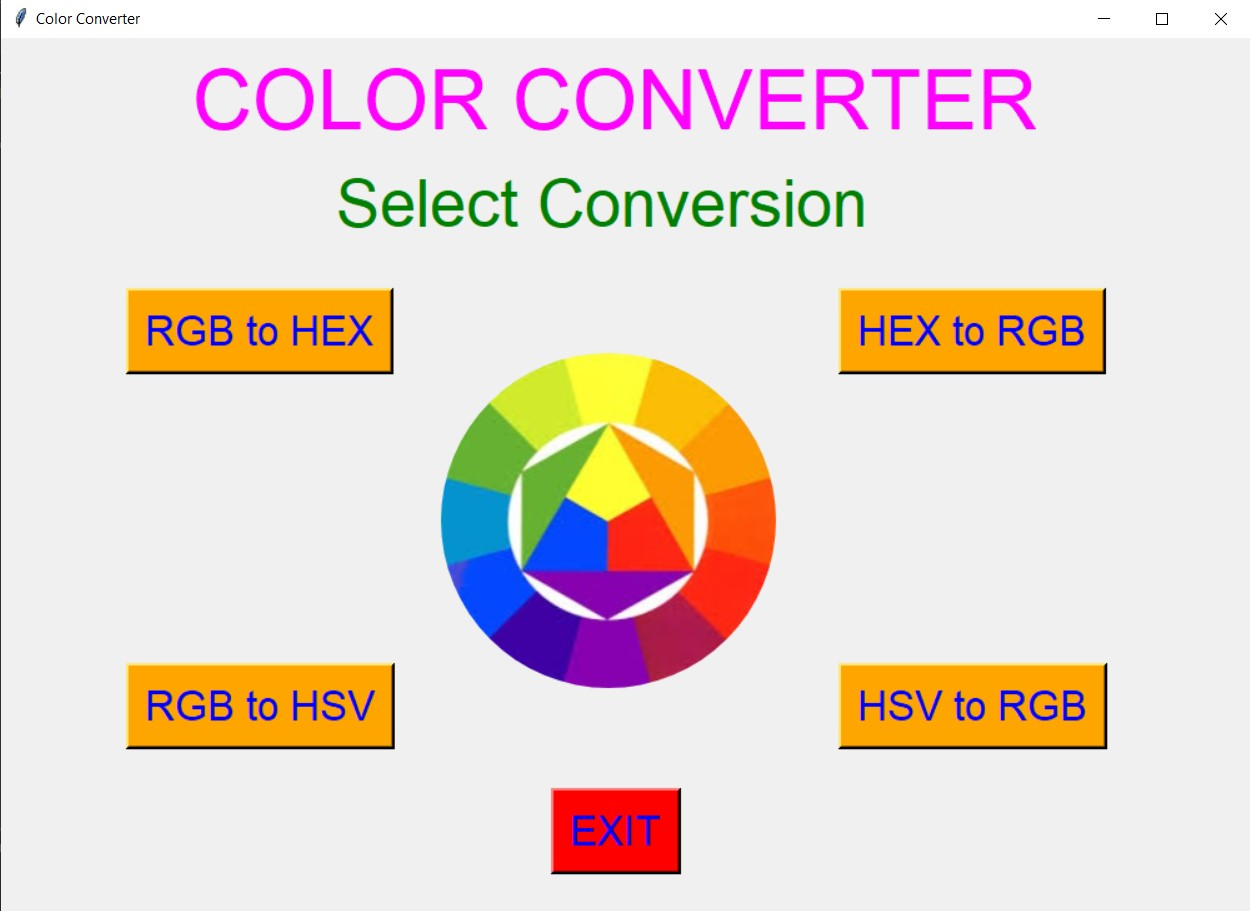
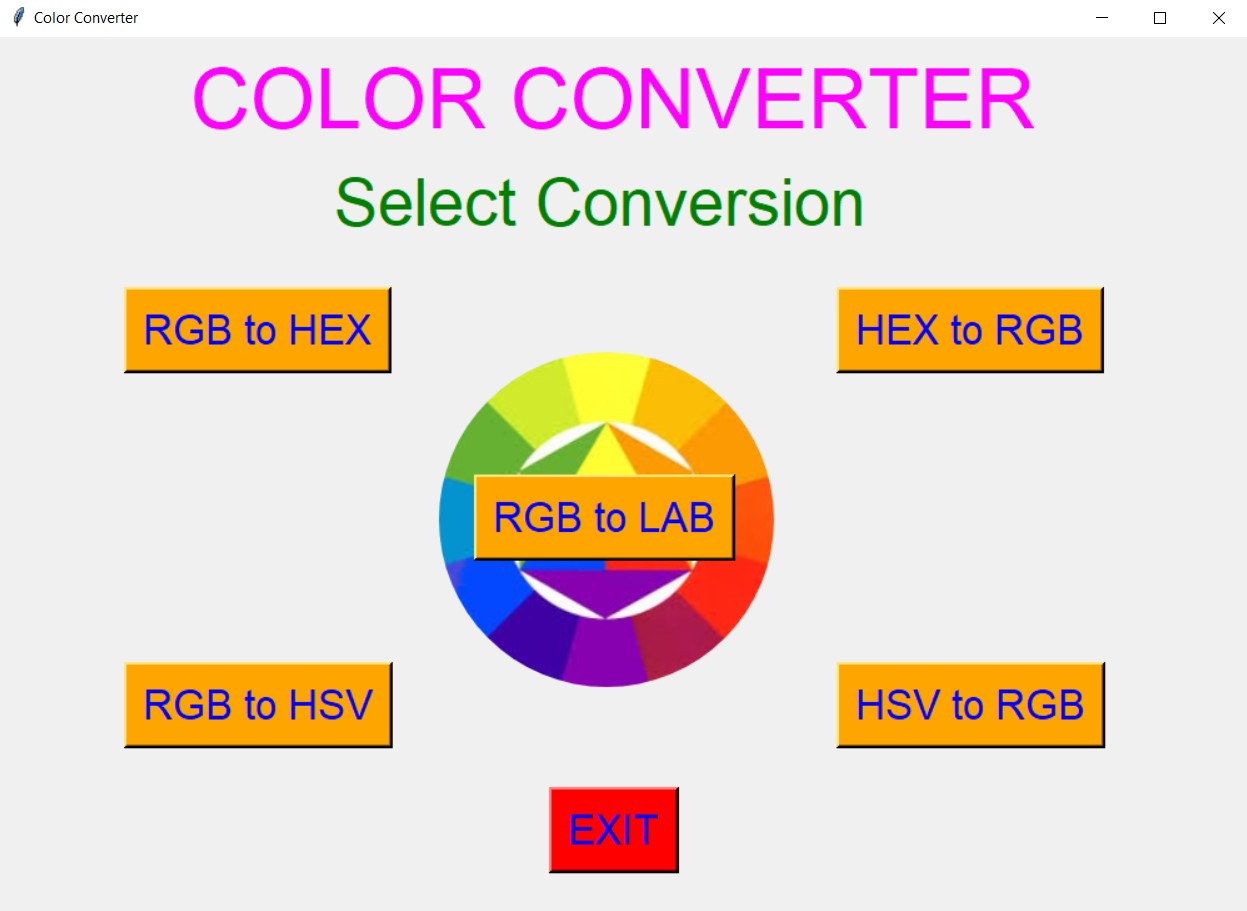
Enhanced Color Converter with RGB to LAB Conversion

diff --git a/GUIScripts/Color Converter/color_converter.py b/GUIScripts/Color Converter/color_converter.py
@@ -6,6 +6,7 @@ from tkinter import *  # from tkinter we import everything
 import tkinter as tk
 from tkinter import ttk
 from PIL import Image, ImageTk
+import tkinter.messagebox as mbox
 import colorsys
 
 # Main Window
@@ -290,6 +291,112 @@ def def_hsv_to_rgb():
                       borderwidth=3, relief="raised")
     convertb.place(x=380, y=600)
 
+# function to convert from rgb to lab
+def def_rgb_to_lab():
+    # function for convert button
+    def convert_fun():
+        input_rgb = f_entry.get()
+        list = (input_rgb.rstrip().split(' '))
+
+        num = 0
+        # created list RGB and initialized with 0
+        RGB = [0, 0, 0]
+        for value in list:
+            value = float(value) / 255
+            if value > 0.04045:
+                value = ((value + 0.055) / 1.055) ** 2.4
+            else:
+                value = value / 12.92
+            RGB[num] = value * 100
+            num = num + 1
+        XYZ = [0, 0, 0,]
+        # converted all the three R, G, B to X, Y, Z
+        X = RGB[0] * 0.4124 + RGB[1] * 0.3576 + RGB[2] * 0.1805
+        Y = RGB[0] * 0.2126 + RGB[1] * 0.7152 + RGB[2] * 0.0722
+        Z = RGB[0] * 0.0193 + RGB[1] * 0.1192 + RGB[2] * 0.9505
+        # rounded off the values upto 4 decimal digit
+        XYZ[0] = round(X, 4)
+        XYZ[1] = round(Y, 4)
+        XYZ[2] = round(Z, 4)
+        XYZ[0] = float(XYZ[0]) / 95.047  # ref_X =  95.047   Observer= 2°, Illuminant= D65
+        XYZ[1] = float(XYZ[1]) / 100.0  # ref_Y = 100.000
+        XYZ[2] = float(XYZ[2]) / 108.883  # ref_Z = 108.883
+        num = 0
+        for value in XYZ:
+            if value > 0.008856:
+                value = value ** (0.3333333333333333)
+            else:
+                value = (7.787 * value) + (16 / 116)
+            XYZ[num] = value
+            num = num + 1
+
+        # formed Lab list and initialize with 0
+        Lab = [0,0, 0]
+        # found L, A, and B
+        L = (116 * XYZ[1]) - 16
+        a = 500 * (XYZ[0] - XYZ[1])
+        b = 200 * (XYZ[1] - XYZ[2])
+        # rounded off to 4 decimal digit
+        Lab[0] = round(L,4)
+        Lab[1] = round(a,4)
+        Lab[2] = round(b,4)
+        x = str(Lab[0]) + " " + str(Lab[1]) + " " + str(Lab[2])
+
+        s_entry.delete(0, END)
+        s_entry.insert(0, x)
+
+        red = int(list[0])
+        green = int(list[1])
+        blue = int(list[2])
+        x1 = '#%02x%02x%02x' % (red, green, blue)
+
+        # previewed
+        preview_text.configure(bg=str(x1))
+        top1.configure(bg=str(x1))
+        top2.configure(bg=str(x1))
+        # mbox.showinfo("Brightness", "Brightness Level  :  " + str(Lab[0]))
+
+
+    # created frame1 window
+    frame1 = Tk()
+    frame1.title('RGB to LAB')
+    frame1.geometry('1000x700')
+
+    # top label
+    start1 = tk.Label(frame1, text="RGB to LAB", font=("Arial", 50), fg="magenta")  # same way bg
+    start1.place(x=290, y=10)
+
+    # for preview
+    preview_text = tk.Text(frame1, height=15, width=60, font=("Arial", 15), bg="white", borderwidth=3, relief="solid")
+    preview_text.place(x=150, y=100)
+
+    # preview1 label
+    top1 = Label(frame1, text="PREVIEW AREA", font=("Arial", 40), fg="black", bg="white")  # same way bg
+    top1.place(x=270, y=180)
+
+    # preview2 label
+    top2 = Label(frame1, text="Color will be previewed here...", font=("Arial", 25), fg="black",bg="white")  # same way bg
+    top2.place(x=265, y=280)
+
+    # label for color name ---------------------------------------------------------------------------------
+    f_label = tk.Label(frame1, text="RGB Code", font=("Arial", 35), fg="brown")  # same way bg
+    f_label.place(x=180, y=470)
+
+    f_entry = Entry(frame1, font=("Arial", 30), width=10, border=2, bg="light yellow", fg="brown")
+    f_entry.place(x=180, y=530)
+
+    # label for color name ---------------------------------------------------------------------------------
+    s_label = tk.Label(frame1, text="LAB Code", font=("Arial", 35), fg="brown")  # same way bg
+    s_label.place(x=550, y=470)
+
+    s_entry = Entry(frame1, font=("Arial", 30), width=15, border=2, bg="light yellow", fg="brown")
+    s_entry.place(x=500, y=530)
+
+    # created a button for hex to rgb conversion
+    convertb = Button(frame1, text='CONVERT', command=convert_fun, font=("Arial", 25), bg="light green", fg="blue",borderwidth=3, relief="raised")
+    convertb.place(x=380, y=600)
+
+
 # image on the main window
 path = "Images/color.png"
 # Creates a Tkinter-compatible photo image, which can be used everywhere Tkinter expects an image object.
@@ -313,6 +420,10 @@ rgbtohexb.place(x=100, y=200)
 # created a button for hex to rgb conversion
 hextorgbb = Button(frame, text='HEX to RGB', command=def_hex_to_rgb, font=("Arial", 25), bg = "orange", fg = "blue", borderwidth=3, relief="raised")
 hextorgbb.place(x=670, y=200)
+
+# created a button for rgb to lab conversion
+rgbtolabb = Button(frame, text='RGB to LAB', command=def_rgb_to_lab, font=("Arial", 25), bg = "orange", fg = "blue", borderwidth=3, relief="raised")
+rgbtolabb.place(x=380, y=350)
 
 # created a button for rgb to hsv conversion
 rgbtohsvb = Button(frame, text='RGB to HSV', command=def_rgb_to_hsv, font=("Arial", 25), bg = "orange", fg = "blue", borderwidth=3, relief="raised")

diff --git a/GUIScripts/Color Converter/README_enhanced.md b/GUIScripts/Color Converter/README_enhanced.md
@@ -1,0 +1,38 @@
+# ✔ COLOR CONVERTER
+- #### An Color Converter created in python with tkinter gui.
+- #### Using this user will be able to convert RGB color code to HEX color code, HEX to RGB, RGB to HSV, HSV to RGB and RGB to LAB.
+- #### Also while converting user will be shown preview of the color converted in the preview area.
+
+****
+
+# Changes Done :
+- ### Updated Code with the RGB to LAB color conversion. Here user will be able to convert RGB code to LAB code. In LAB, L stands for Lightness and A and B are chromatic component of color.
+- ### Updated the Images in the Images Folder.
+
+****
+
+# SCREENSHOTS :
+
+****
+
+<p align="center">
+  <img width = 1000 src="Images/1.jpg" /><br>
+  <img width = 1000 src="Images/2.jpg" /><br>
+  <img width = 1000 src="Images/3.jpg" /><br>
+  <img width = 1000 src="Images/4.jpg" /><br>
+  <img width = 1000 src="Images/5.jpg" /><br>
+  <img width = 1000 src="Images/6.jpg" /><br>
+  <img width = 1000 src="Images/7.jpg" /><br>
+  <img width = 1000 src="Images/8.jpg" /><br>
+  <img width = 1000 src="Images/9.jpg" /><br>
+  <img width = 1000 src="Images/10.jpg" /><br>
+  <img width = 1000 src="Images/11.jpg" /><br>
+  <img width = 1000 src="Images/12.jpg" /><br>
+  <img width = 1000 src="Images/13.jpg" /><br>
+</p>
+
+****
+
+# Author : 
+- ### Akash Ramanand Rajak
+
